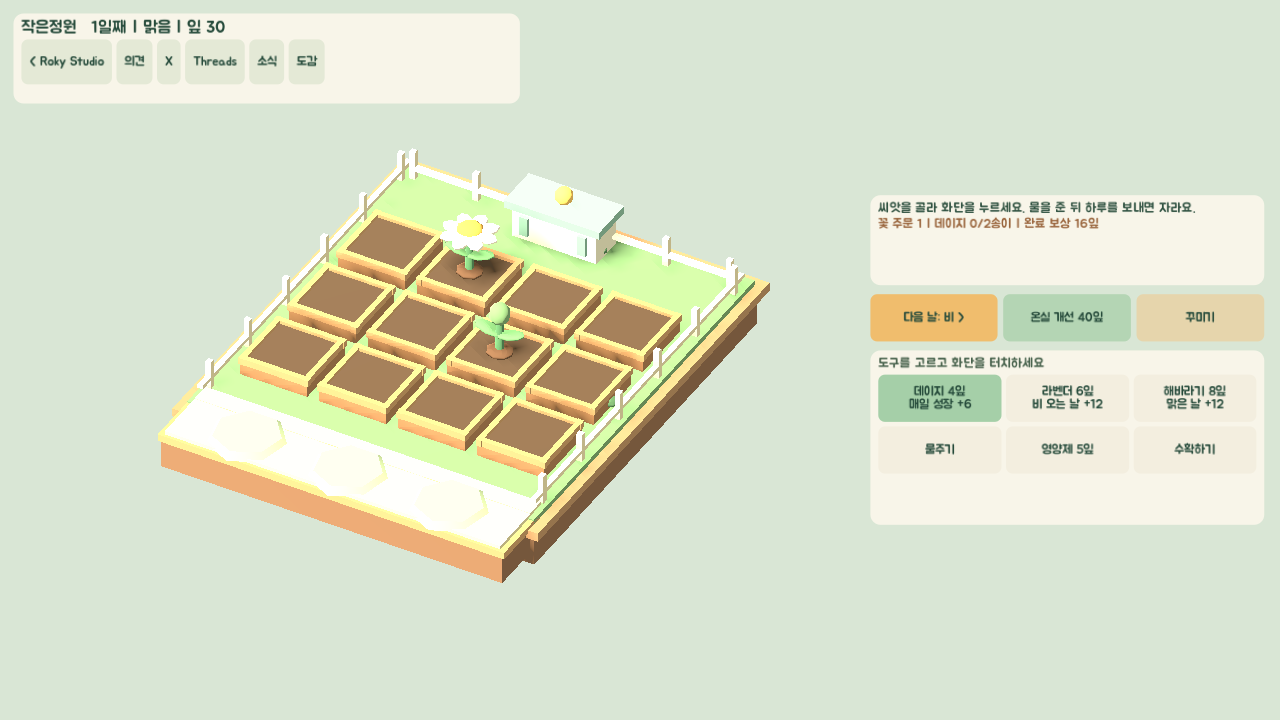
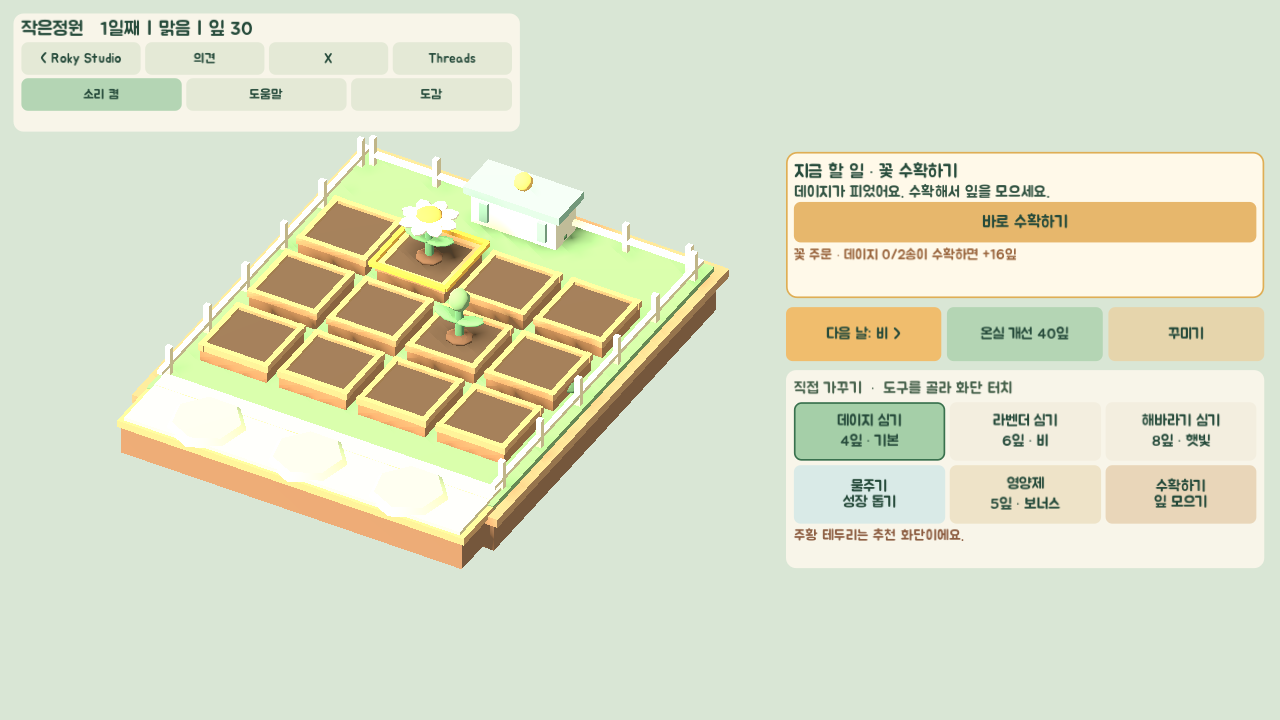
Feature guided garden UI in studio

diff --git a/index.html b/index.html
@@ -152,9 +152,9 @@
               <div class="project-content">
                 <div class="card-topline"><span class="category">3D 정원 가꾸기 게임</span><span class="availability live"><i></i> 공개 플레이</span></div>
                 <h3>작은정원</h3>
-                <p class="project-description">꽃을 심고 물을 주며 정원을 키워보세요. 잔잔한 배경음과 행동별 효과음 속에서 온실을 개선하고 장식도 배치할 수 있습니다.</p>
-                <ul class="feature-list" aria-label="주요 특징"><li>꽃 3종과 날씨</li><li>온실·장식 개선</li><li>배경음과 효과음</li><li>브라우저 로컬 저장</li></ul>
-                <a class="project-link" href="https://mcroky.github.io/small-garden/?v=082" target="_blank" rel="noopener noreferrer" aria-label="작은정원 새 창에서 플레이하기">플레이하기 <span aria-hidden="true">↗</span></a>
+                <p class="project-description">화면의 ‘지금 할 일’을 따라 꽃을 심고 돌보며 정원을 키워보세요. 익숙해지면 직접 도구를 골라 온실과 장식을 꾸밀 수 있습니다.</p>
+                <ul class="feature-list" aria-label="주요 특징"><li>한 번에 하는 추천 행동</li><li>꽃 3종과 날씨</li><li>온실·장식 개선</li><li>브라우저 로컬 저장</li></ul>
+                <a class="project-link" href="https://mcroky.github.io/small-garden/?v=090" target="_blank" rel="noopener noreferrer" aria-label="작은정원 새 창에서 플레이하기">플레이하기 <span aria-hidden="true">↗</span></a>
               </div>
             </article>
           </div>
@@ -166,13 +166,19 @@
         <div class="shell">
           <div class="section-heading updates-heading">
             <div>
-              <p class="section-kicker">WHAT'S NEW <span id="updates-as-of">2026.10.23 기준</span></p>
+              <p class="section-kicker">WHAT'S NEW <span id="updates-as-of">2026.10.24 기준</span></p>
               <h2 id="updates-title">업데이트 내역</h2>
               <p>각 프로젝트의 최신 변화부터 지난 기록까지 한눈에 확인해 보세요.</p>
               <p class="updates-sync-status" id="updates-sync-status" role="status" aria-live="polite"></p>
             </div>
           </div>
           <div class="updates-grid">
+            <article class="update-card update-card-garden">
+              <div class="update-meta"><span class="update-project">작은정원</span><time datetime="2026-10-24">2026.10.24</time></div>
+              <h3>다음에 할 일이 보이는 정원 <span>v0.9.0</span></h3>
+              <p>현재 정원에 맞는 큰 행동 버튼과 추천 화단을 추가했습니다. 모바일과 넓은 웹 화면의 글자와 조작 패널도 다듬었습니다.</p>
+              <a href="https://mcroky.github.io/small-garden/?v=090" target="_blank" rel="noopener noreferrer">작은정원 플레이하기 <span aria-hidden="true">↗</span></a>
+            </article>
             <article class="update-card update-card-garden">
               <div class="update-meta"><span class="update-project">작은정원</span><time datetime="2026-10-23">2026.10.23</time></div>
               <h3>정원에 소리가 찾아왔어요 <span>v0.8.2</span></h3>
